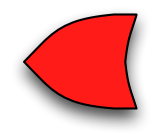
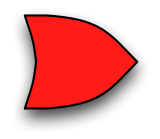
Update on Type_B

diff --git a/CS341FinalProject/src/Type_B_GameObject_Implement.java b/CS341FinalProject/src/Type_B_GameObject_Implement.java
@@ -3,17 +3,18 @@ import java.util.LinkedList;
 import javax.swing.Icon;
 import javax.swing.ImageIcon;
 
-public class Type_B_GameObject extends GameObject {
+public class Type_B_GameObject_Implement extends GameObject {
 
-	public Type_B_GameObject(int x, int y) {
+	// CONSTRUCTOR
+	public Type_B_GameObject_Implement(int x, int y) {
 		super(x, y);
-		setDirection(Direction.LEFT);
+		setDirection(Direction.RIGHT);
 
 		imageList = new LinkedList<Icon>();
 		imageList.add(new ImageIcon("src/images/Type_B_Right.png"));
-		imageList.add(new ImageIcon("src/images/Type_B_Left.png"));
 		imageList.add(new ImageIcon("src/images/Type_B_Up.png"));
 		imageList.add(new ImageIcon("src/images/Type_B_Down.png"));
+		imageList.add(new ImageIcon("src/images/Type_B_Left.png"));
 
 	}
 
@@ -22,39 +23,35 @@ public class Type_B_GameObject extends GameObject {
 
 		int iconWidth = icon.getIconWidth();
 		int iconHeight = icon.getIconHeight();
-	
-		if (getDirection() == Direction.LEFT) {
+		
+		if (getDirection() == Direction.RIGHT) {
 			setX(getX() + getVelocity());
 			if (getX() + iconWidth > c.getSize().getWidth()) {
-				setX((int) (c.getSize().getWidth() - iconWidth));
-				setDirection(Direction.RIGHT);
-			}
-		} 
-		else {
-			setX(getX() - getVelocity());
-			if (getX() < 0) {
-				setX(0);
+				setX((int) (c.getSize().getWidth() - iconHeight));
+				setDirection(Direction.DOWN);
+			} 
+		}
+		else if (getDirection() == Direction.DOWN) {
+			setY(getY() + getVelocity());
+			if (getY() + iconHeight > c.getSize().getWidth()) {
+				setY((int) (c.getSize().getWidth() - iconWidth));
 				setDirection(Direction.LEFT);
 			}
 		}
-		
-		
-		if (getDirection() == Direction.UP) {
-			setY(getY() + getVelocity());
-			if (getY() + iconHeight > c.getSize().getWidth()) {
-				setY((int) (c.getSize().getWidth() - iconHeight));
-				setDirection(Direction.DOWN);
-			}
-		} 
-		else {
-			setY(getY() - getVelocity());
-			if (getY() < 0) {
-				setY(0);
+		else if (getDirection() == Direction.LEFT) {
+			setX(getX() + getVelocity());
+			if (getX() + iconHeight > c.getSize().getWidth()) {
+				setX((int) (c.getSize().getWidth() - iconWidth));
 				setDirection(Direction.UP);
 			}
 		}
-		
-		
+		else {
+			setY(getY() - getVelocity());
+			if (getY() < 0) {
+				setX(0);
+				setDirection(Direction.RIGHT);
+			}
+		}
 	}
 
 	// SPECIFY THE IMAGE TO DISPLAY
@@ -66,14 +63,14 @@ public class Type_B_GameObject extends GameObject {
 		case Direction.RIGHT:
 			currentImage = 0;
 			break;
-		case Direction.LEFT:
+		case Direction.UP:
 			currentImage = 1;
 			break;
-		case Direction.UP:
-			currentImage = 3;
-			break;
 		case Direction.DOWN:
-			currentImage = 4;
+			currentImage = 2;
+			break;
+		case Direction.LEFT:
+			currentImage = 3;
 			break;
 		}
 	}

diff --git a/CS341FinalProject/src/MyMain.java b/CS341FinalProject/src/MyMain.java
@@ -6,15 +6,22 @@ public class MyMain {
 		// TASK 1: CREATE A CANVAS FOR ANIMATION
 		Canvas canvas = new Canvas();
 		canvas.requestFocus();
-		
+		/*
 		Type_A_GameObject A = new Type_A_GameObject(400, 200);
 		A.setVelocity(10);
 		canvas.addGameObject(A);
-		
-		Type_B_GameObject B = new Type_B_GameObject(400, 300);
-		B.setVelocity(2);
+		*/
+	
+		Type_B_GameObject_Implement B = new Type_B_GameObject_Implement(100, 100);
+		B.setVelocity(15);
 		canvas.addGameObject(B);
 		
+		
+		/*
+		Type_B_GameObject_Adapter B = new Type_B_GameObject_Adapter(400, 300);
+		//B.setVelocity(2);
+		canvas.addgetMove(B);
+	
 		Type_C_GameObject C = new Type_C_GameObject(400, 400);
 		C.setVelocity(10);
 		canvas.addGameObject(C);
@@ -24,6 +31,6 @@ public class MyMain {
 		D.setVelocity(10);
 		canvas.addKeyListener(D);
 		canvas.addGameObject(D);
-		
+		*/
 	}
 }

diff --git a/CS341FinalProject/src/Type_A_GameObject.java b/CS341FinalProject/src/Type_A_GameObject.java
@@ -23,8 +23,8 @@ public class Type_A_GameObject extends GameObject {
 		// HEIGHT
 		if (getDirection() == Direction.DOWN) {
 			setY(getY() + getVelocity());
-			if (getY() + iconHeight > c.getSize().getHeight()) {
-				setY((int) (c.getSize().getHeight() - iconHeight));
+			if (getY() + iconHeight > c.getSize().getWidth()) {
+				setY((int) (c.getSize().getWidth() - iconHeight));
 				setDirection(Direction.UP);
 			}
 		} 

diff --git a/CS341FinalProject/src/Type_B_GameObject_Adapter.java b/CS341FinalProject/src/Type_B_GameObject_Adapter.java
@@ -1,0 +1,5 @@
+
+public interface Type_B_GameObject_Adapter {
+	public void move(Canvas c);
+
+}
